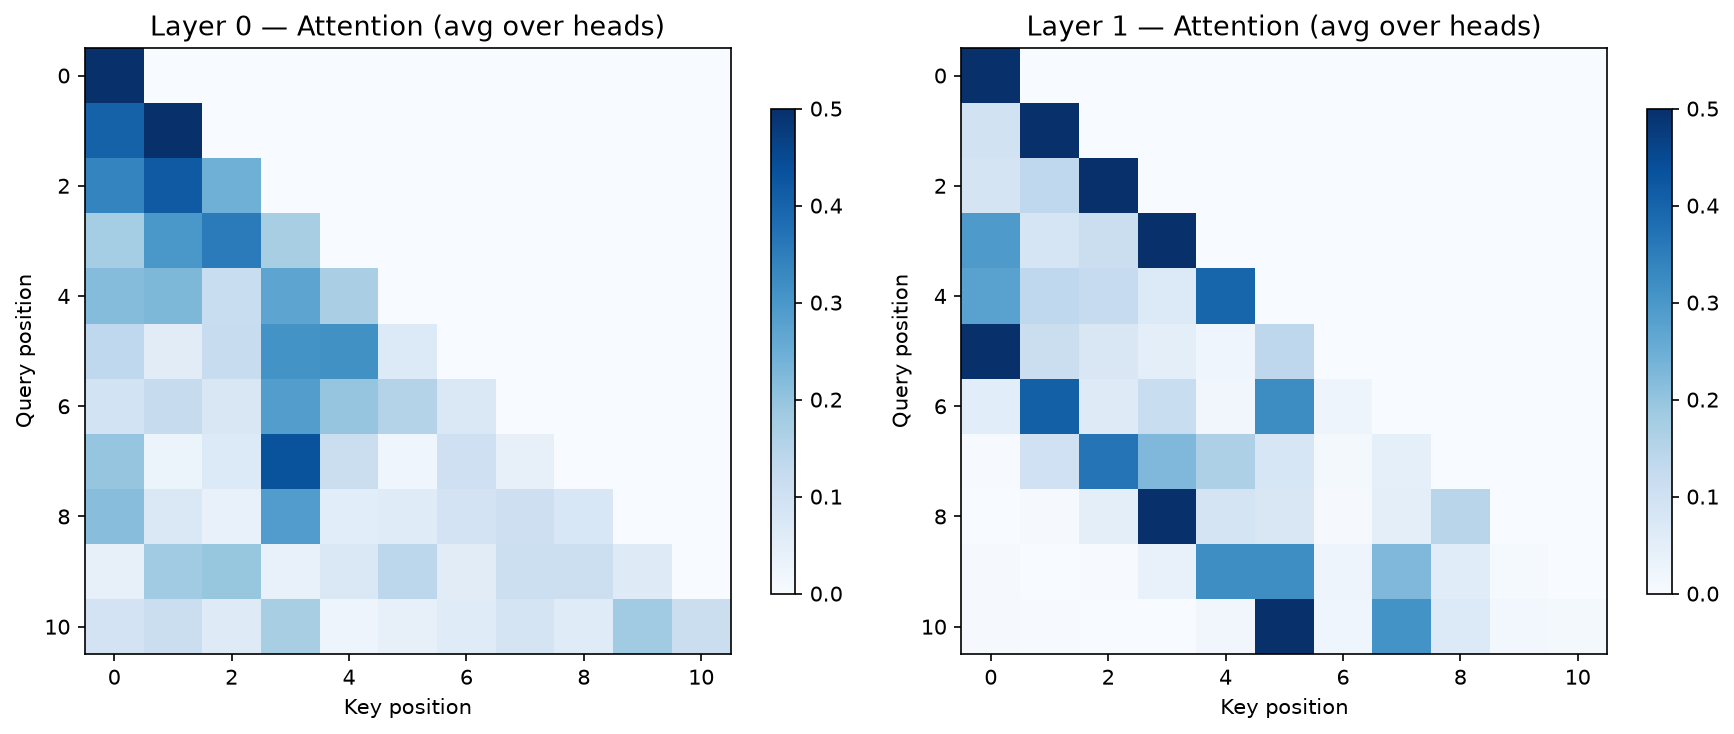
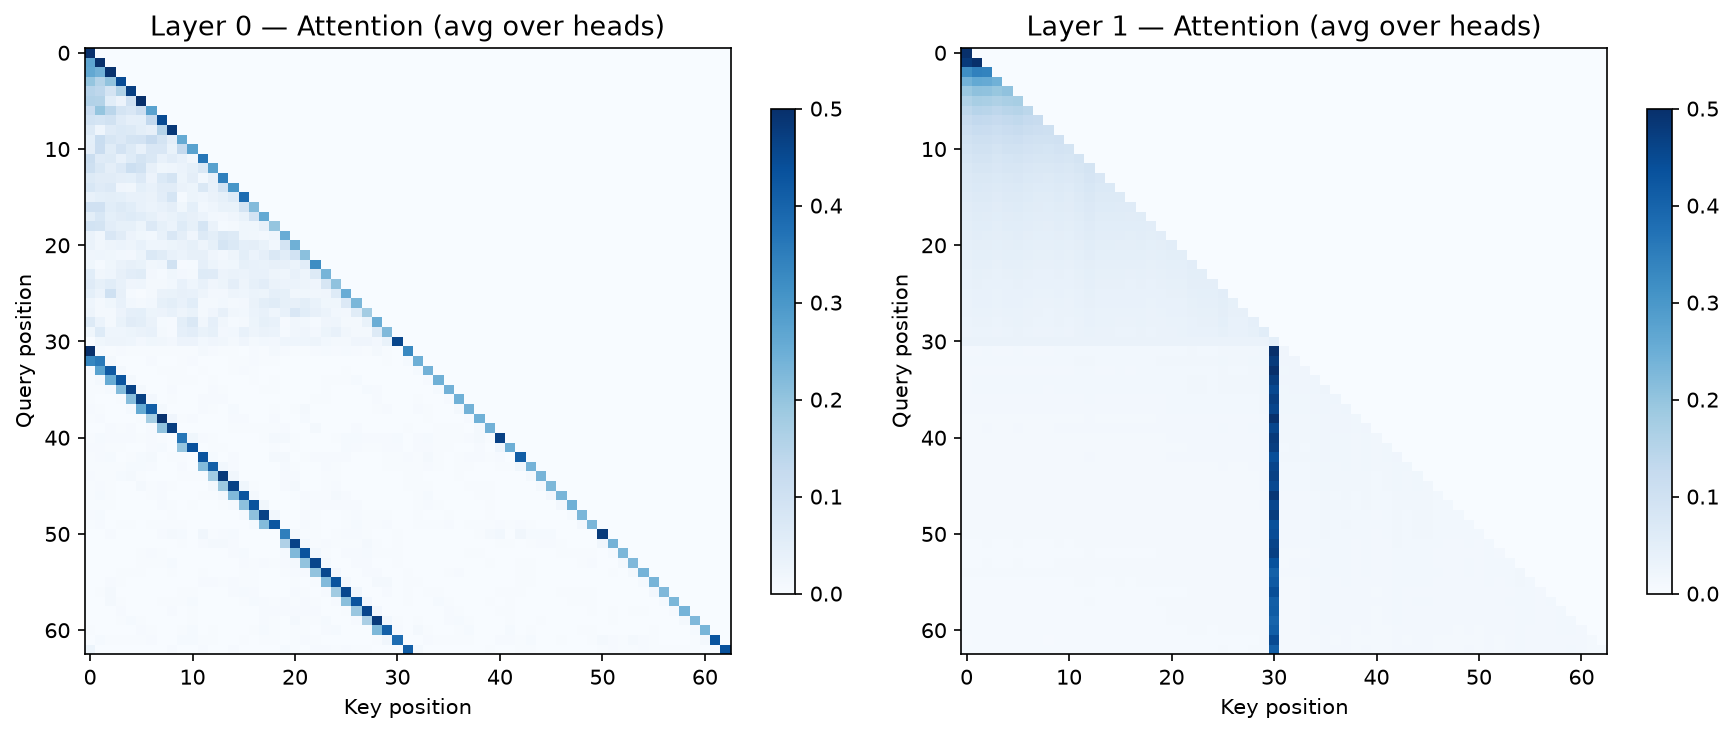
docs(portfolio): the Rung 1 content task, the phase gate, and the missing figures
The record now carries the open experiment instead of a promise: RESULTS.md has a Rung 1 subsection
for the content-based task (the task, why it separates the mechanisms, the seven criteria, the
budget, and 'Status: not run' with no number next to it), a summary row for it, and an honest
phase-gate table (the mini-paper prose is written; W&B and HF Spaces are descoped with their
reasons).

The research plan and the paper carry the same open item.

The Rung 4 figures are regenerated from the standard-scale checkpoint — the GPU run's own
exp1_checkpoint_seed0.pt at epoch 3000 — so exp4_head_ablation.png exists for the first time: head
ablation is skipped whenever 0 heads are detected, and the cascade had never had a head to point at.
It does now (seed 0: three heads, effects 0.43/0.57/0.45).

diff --git a/portfolio/paper/main.tex b/portfolio/paper/main.tex
@@ -275,6 +275,29 @@ The $0.508$ accuracy plateau is the same one the joint capstone run
 measured ($0.5034$): copying the periodic continuation is exactly right on
 the second half of the sequence and unpredictable on the first.
 
+\subsection{The Task That Can Answer It (Pre-Registered, Not Yet Run)}
+\label{sec:content-task}
+The result above is a statement about a task that does not contain the
+question. A task that does is specified and frozen before its run: a key of
+$36$ distinct tokens, four verbatim copy blocks of five, with the source
+windows \emph{and} the block positions resampled per sequence, so the
+distance between a token and its previous occurrence changes from block to
+block. Every token appears at most twice, so the task is well posed, and
+the copy queries are derived from the tokens alone rather than from the
+generator. The best \emph{single fixed offset} explains $17.6\%$ of the
+copy queries on that data, while a content-matching head can reach $100\%$
+--- a gap that is a property of the data, measured before the run.
+
+The verdict is pre-registered as seven criteria (content mass, content mass
+above the best fixed offset, copy accuracy, accuracy on the
+non-modal-distance group, the margin over the fixed-offset baseline, the
+ablation drop and the path-patching effect), computed from the manifest by
+the notebook rather than written by hand, on three seeds at the same budget
+as the periodic run, with a negative reported as a negative. The run is not
+in this version, and this paper therefore does not claim an induction head:
+it claims a prefix-copying head, and it says why the difference is
+structural.
+
 \subsection{Multi-Seed Quick-Scale Manifest}
 Three seeds at quick scale ($V=256$, $\text{seq\_len}=16$,
 $d_\text{model}=24$, 2 layers, 4 heads, 150 epochs, fresh batches):

diff --git a/portfolio/RESULTS.md b/portfolio/RESULTS.md
@@ -461,8 +461,25 @@ Reading the table:
 
 **What this does not claim**: that the model implements Olsson-style content-based
 induction. It does not, on this task. The content-based claim is not testable
-here — it needs a task with repeats at *varying* distances, which is a v1.1
-task-design increment (ADR-0032, decision 3).
+here — it needs a task with repeats at *varying* distances.
+
+### The content-based task (issue #200) — pre-registered, run pending
+
+The task that *does* contain the question is specified, frozen and waiting for
+its GPU run. The short version:
+
+| | |
+|---|---|
+| **The task** | A key of 36 distinct tokens; four verbatim copy blocks of five, with the source windows **and** the block positions resampled per sequence, so the distance between a token and its previous occurrence changes from block to block. Every token appears at most twice (the task is well posed), the filler is distinct and unpredictable, and the copy queries are derived **from the tokens alone** — the detector never has to trust the generator. |
+| **Why it separates the mechanisms** | The best *single fixed offset* explains **17.6%** of the copy queries (measured on the data before the run). A content-matching head can reach 100%. That gap is the claim, and it is a property of the data, not an assumption. |
+| **The verdict** | Seven pre-registered criteria (content mass ≥ 0.30, content mass above the best fixed offset by ≥ 0.10, copy accuracy ≥ 0.60, non-modal-distance accuracy ≥ 0.50, copy accuracy above the fixed-offset baseline by ≥ 0.20, ablation drop ≥ 0.10, path-patching effect ≥ 0.20), computed **from the manifest by the notebook**, per seed, with POSITIVE / PARTIAL / NEGATIVE read off the criteria. |
+| **The budget** | The same as the periodic run — 3 seeds × 3000 epochs = 384k optimizer steps per seed, GPU. A negative at that budget is a negative: the budget is not extended after the fact, and no seed is dropped. |
+| **Where it is** | [ADR-0033](../docs/adr/0033-content-based-induction-task.md), the [pre-registration](../07_capstone/notes/variable-distance-induction-preregistration.md), the notebook `notebooks/kaggle_induction_content.ipynb` (`make remote-run-induction-content`). |
+
+**Status: [ ] not run.** No number is reported here, because there is none
+yet. The experiment exists, its rules are frozen, and the run is the open
+item — the one measurement in this repository that can still change a
+headline claim.
 
 ### Quick scale (the historical scale, for continuity)
 
@@ -778,10 +795,13 @@ be an exact no-op for both activation and path patching
 must move the logit diff somewhere.
 
 **Outputs**: `portfolio/figures/exp4_attention_patterns.png`,
-`portfolio/figures/exp4_patching_results.png`. Head-ablation figure not yet generated — head
-ablation itself is skipped whenever 0 induction heads are detected (see above), so there is
-no ablation result to plot yet; the citation that used to point at a non-existent
-`exp4_head_ablation.png` is struck rather than left dangling.
+`portfolio/figures/exp4_patching_results.png`,
+`portfolio/figures/exp4_head_ablation.png` — all three regenerated on
+2026-10-20 from the **standard-scale checkpoint** (the GPU run's
+`exp1_checkpoint_seed0.pt`, epoch 3000), not from a quick-mode model: the
+head-ablation figure is the one that used to be missing, because head
+ablation is skipped whenever 0 induction heads are detected, and the cascade
+had never had a head to point at. It does now.
 
 **Reference**: Wang et al., "Interpretability in the Wild: a Circuit for Indirect Object Identification in GPT-2 small," ICLR 2023. Zhang & Nanda, "Towards Best Practices of Activation Patching," ICLR 2024 — the corrective paper for exactly the site/metric mistakes found here.
 
@@ -900,8 +920,8 @@ every cell, so no reader has to infer them from an aggregate.
 | 2 — Classical ML | ✅ Complete | complete-ml-pipeline |
 | 3 — Deep Learning | ✅ Complete | gradient-flow-and-architectures |
 | 4 — NLP & Transformers | ✅ Complete | circuit-analysis-complete |
-| 5 — LLM Engineering | [~] Instrumentation done (hooks, determinism, harvesting, circuit datasets proven; nnsight pending) | — |
-| 6 — Production AI | [~] Reproducibility harness built (multi-seed + manifests + `verify-claims` + figure-provenance gate 2026-08-07, kill drill + bit-identical checkpoint/resume, CI/mypy fixed, paper scaffold + `make paper` added) — W&B, Hugging Face Spaces, and the mini-paper prose are still open | [reproducible-from-clean-clone](../06_production_ai/proofs/reproducible-from-clean-clone.md) (GREEN 2026-08-27, transcript committed) |
+| 5 — LLM Engineering | [~] Instrumentation done (hooks, determinism, harvesting, circuit datasets proven; nnsight pending — not installed, and the capture protocol the repo uses does not need it) | — |
+| 6 — Production AI | [~] Reproducibility harness built (multi-seed + manifests + `verify-claims` + figure-provenance gate 2026-08-07, kill drill + bit-identical checkpoint/resume, CI/mypy fixed, paper compiled and shipped) — **W&B descoped 2026-09-08** (no credential ever worked; the manifests are the record), **HF Spaces descoped 2026-10-11** (the dashboard is a product, the science is in the manifests), **the mini-paper prose is written** (`portfolio/paper/main.tex`) | [reproducible-from-clean-clone](../06_production_ai/proofs/reproducible-from-clean-clone.md) (GREEN 2026-08-27, transcript committed) |
 | 7 — Capstone | ✅ Gate passed 2026-10-12 on the honest negative, **upgraded to the positive 2026-10-14** | [capstone-gate-honest-negative](../07_capstone/notes/capstone-gate-honest-negative.md) (dense mechanism defended with manifests) → superseded: the sparse circuit is real ([Rung 2](#rung-2--grokking-modular-addition-primary-flagship--reproduced-2026-10-14-the-2026-08-11-no-grok-was-a-metric-artifact)). The planned 3×20k joint run executed 2026-10-14: the modular/induction **dissociation persists at full budget** (induction 0.5034 ± 0.0002 — the same plateau as the 2k shakedown; modular 0.1699 ± 0.0286 vs 1.0 solo), recorded in the [capstone execution log](../07_capstone/execution-log.md), `results/capstone_20k.json` |
 
 ## Summary
@@ -914,6 +934,7 @@ every cell, so no reader has to infer them from an aggregate.
 | 4 — Circuit Patching | ✅ **Cascade ran end to end on Rung 1's checkpoint** (2026-10-20) | Head ablation **0.4445 ± 0.0425**, path patching **0.8215 ± 0.1255** — the first end-to-end path-patching result against a real head; activation recovery 0.0834 |
 | 5 — SAE Dashboard | ✅ Synthetic reproduced; ✅ **the real-activation gap closed** (2026-10-20) | On the confirmed-head checkpoint the SAE is now *sparse*: L0 15.1/512 (3.0%), FVE 99.998%, MSE 0.0004 — against 53% L0 for the old undertrained model. What remains is a dictionary 8× too large (78% dead features) |
 | 6 — ACDC | ❌ Deleted | Was fabricated data; removed 2026-08-01 rather than fixed |
+| 1b — Content-based induction (issue #200) | [ ] **Pre-registered, run pending** | The task that removes the positional shortcut (repeats at varying distances; the best fixed offset explains 17.6% of the copy queries), its seven criteria, its budget and its decision rule are frozen in [ADR-0033](../docs/adr/0033-content-based-induction-task.md) and the [pre-registration](../07_capstone/notes/variable-distance-induction-preregistration.md). It is the one measurement in this repository that can still change a headline claim — and it is reported whatever it says |
 
 **What to trust right now, in order**: (1) Rung 2's sparse-circuit reproduction —
 GPU, 3 seeds, both protocols, post-audit energy metric, manifests pinned with

diff --git a/07_capstone/research-plan.md b/07_capstone/research-plan.md
@@ -32,11 +32,20 @@ Ordered cheapest/highest-signal → more ambitious. Each is a defensible standal
   "copy by content" and "copy by offset" are the same function in-distribution.
   The honest name for what this rung measures is therefore *prefix-copying head at
   offset L-1*, and the headline above is **not earned** by this task.
-- **Open question (v1.1):** a task that *forces* content matching — repeated
+- **Open question (v1.1, issue #200):** a task that *forces* content matching — repeated
   tokens at *varying* distances, so the copy distance is not predictable from the
   position — is the only way to make the induction claim testable here. That is a
   task-design increment, not a scale increment: no amount of epochs or parameters
-  removes a shortcut the task hands the model.
+  removes a shortcut the task hands the model. The task is now specified and
+  frozen ([ADR-0033](../docs/adr/0033-content-based-induction-task.md), the
+  [pre-registration](notes/variable-distance-induction-preregistration.md)): a key
+  of 36 distinct tokens, four verbatim copy blocks of five with the source
+  windows and the block positions resampled per sequence, so the best single
+  fixed offset explains 17.6% of the copy queries while a content-matching head
+  can reach 100%. Seven criteria, three seeds, the same budget as the periodic
+  run, and a verdict computed from the manifest rather than by hand. The GPU
+  run is the one open item that can still change a headline claim in this
+  repository.
 
 ### Rung 2 — Grokking on Modular Addition (PRIMARY FLAGSHIP ★)
 
